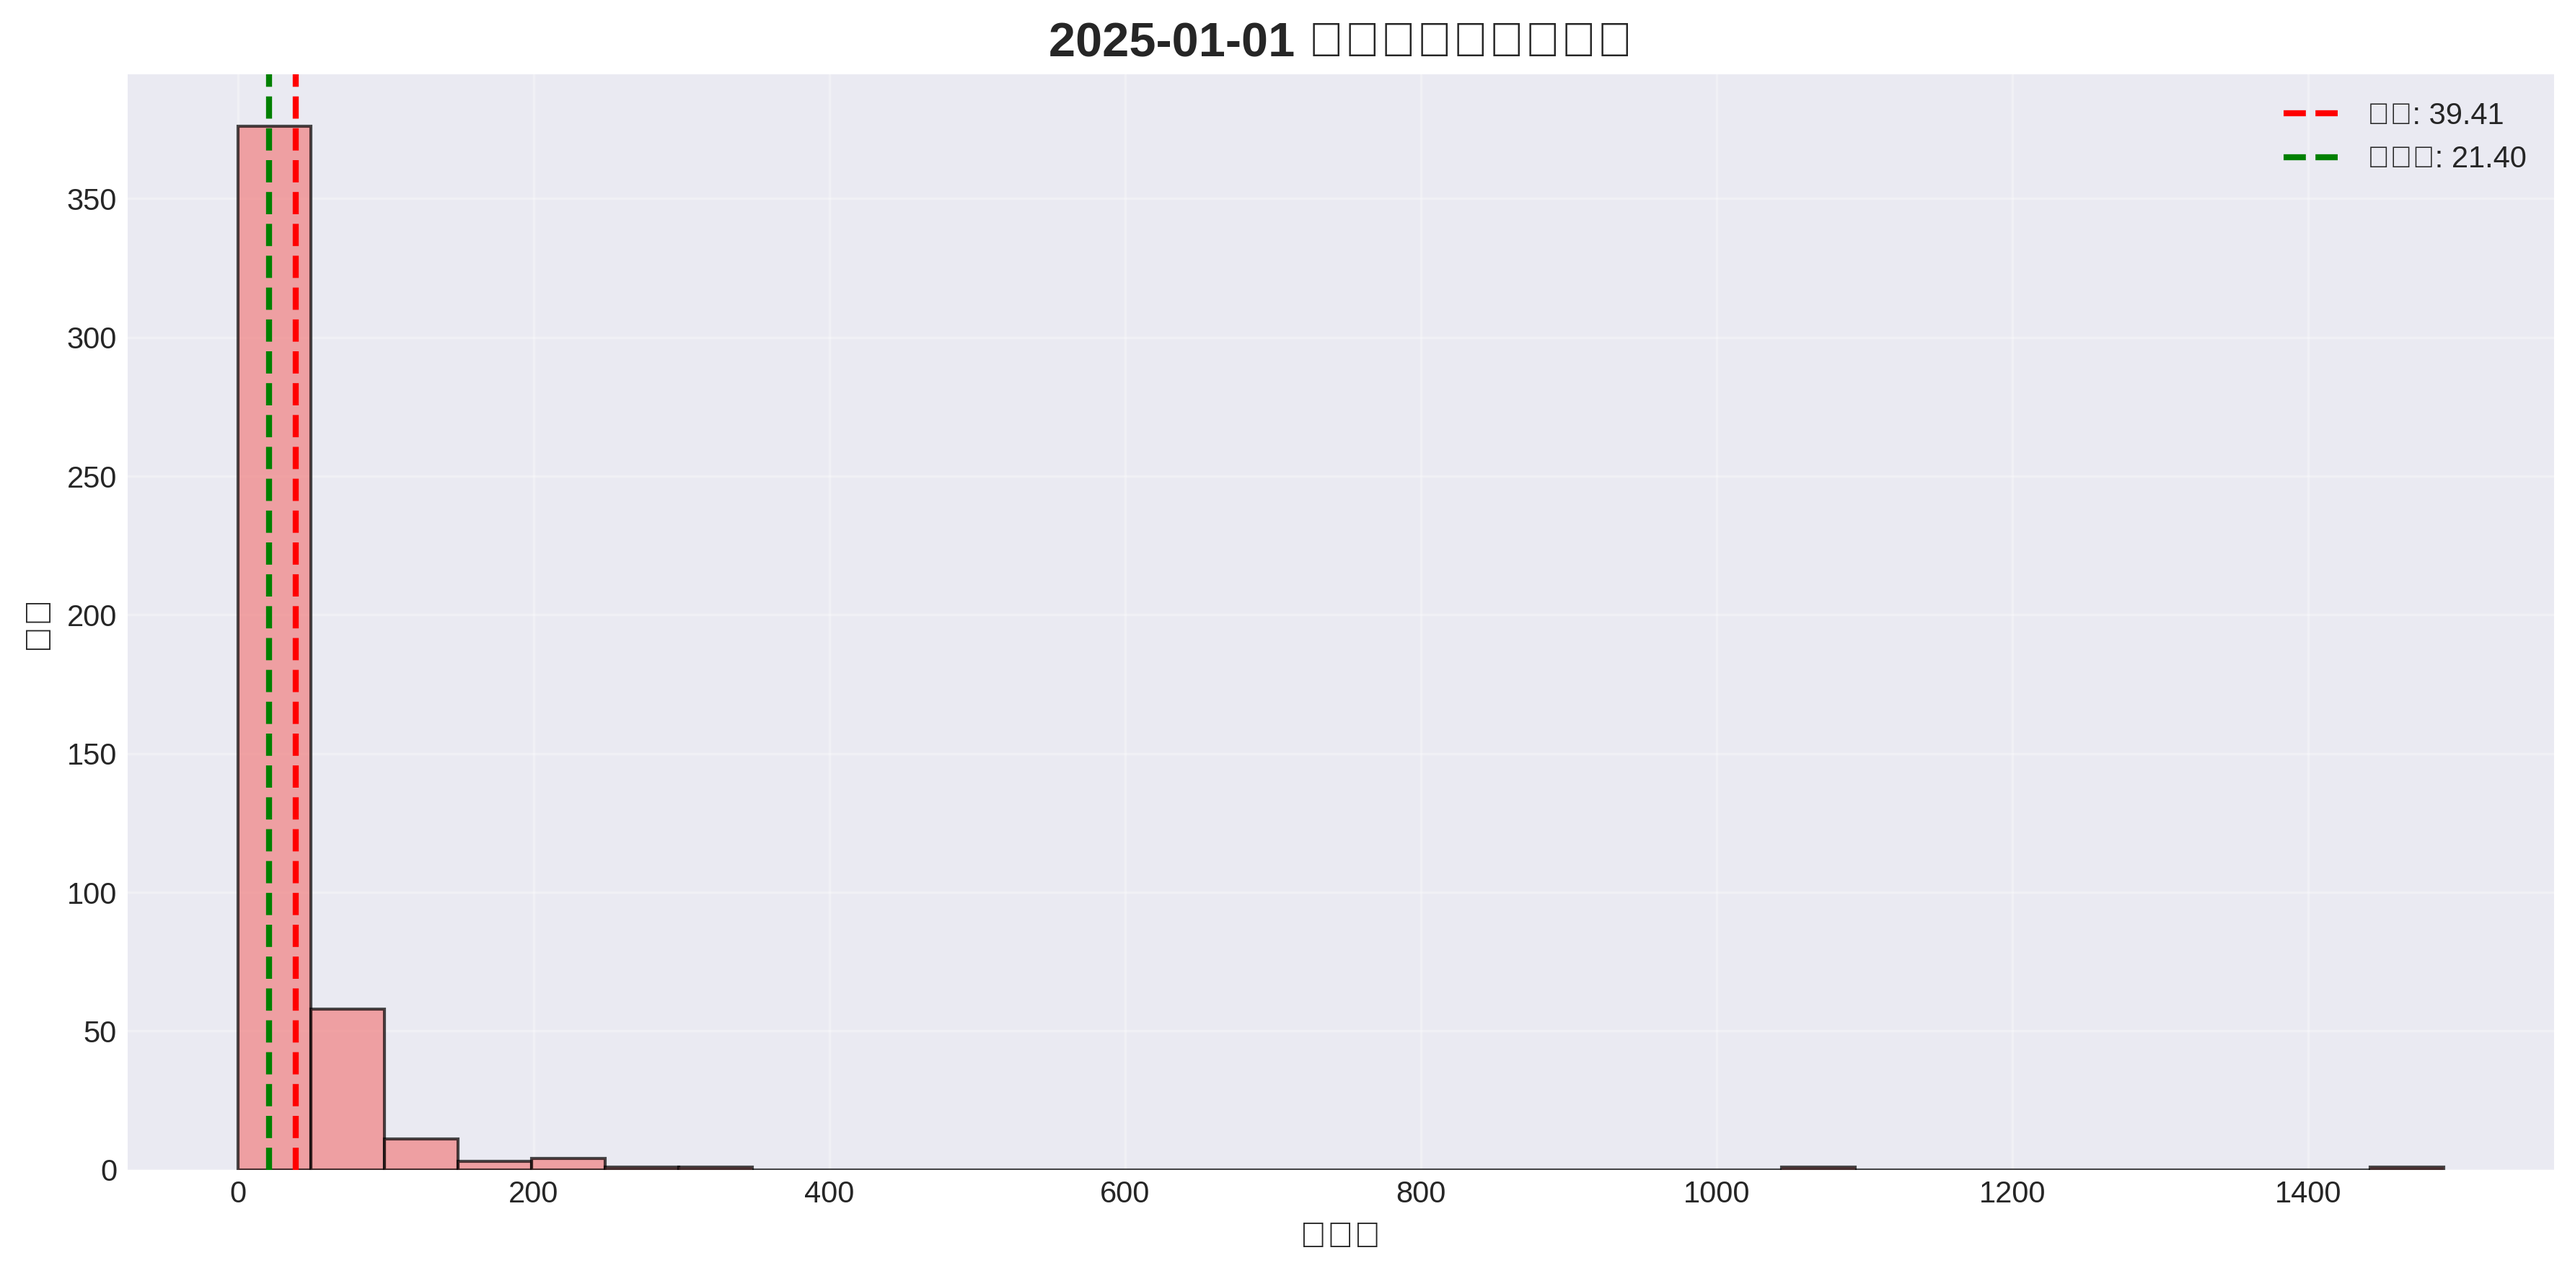
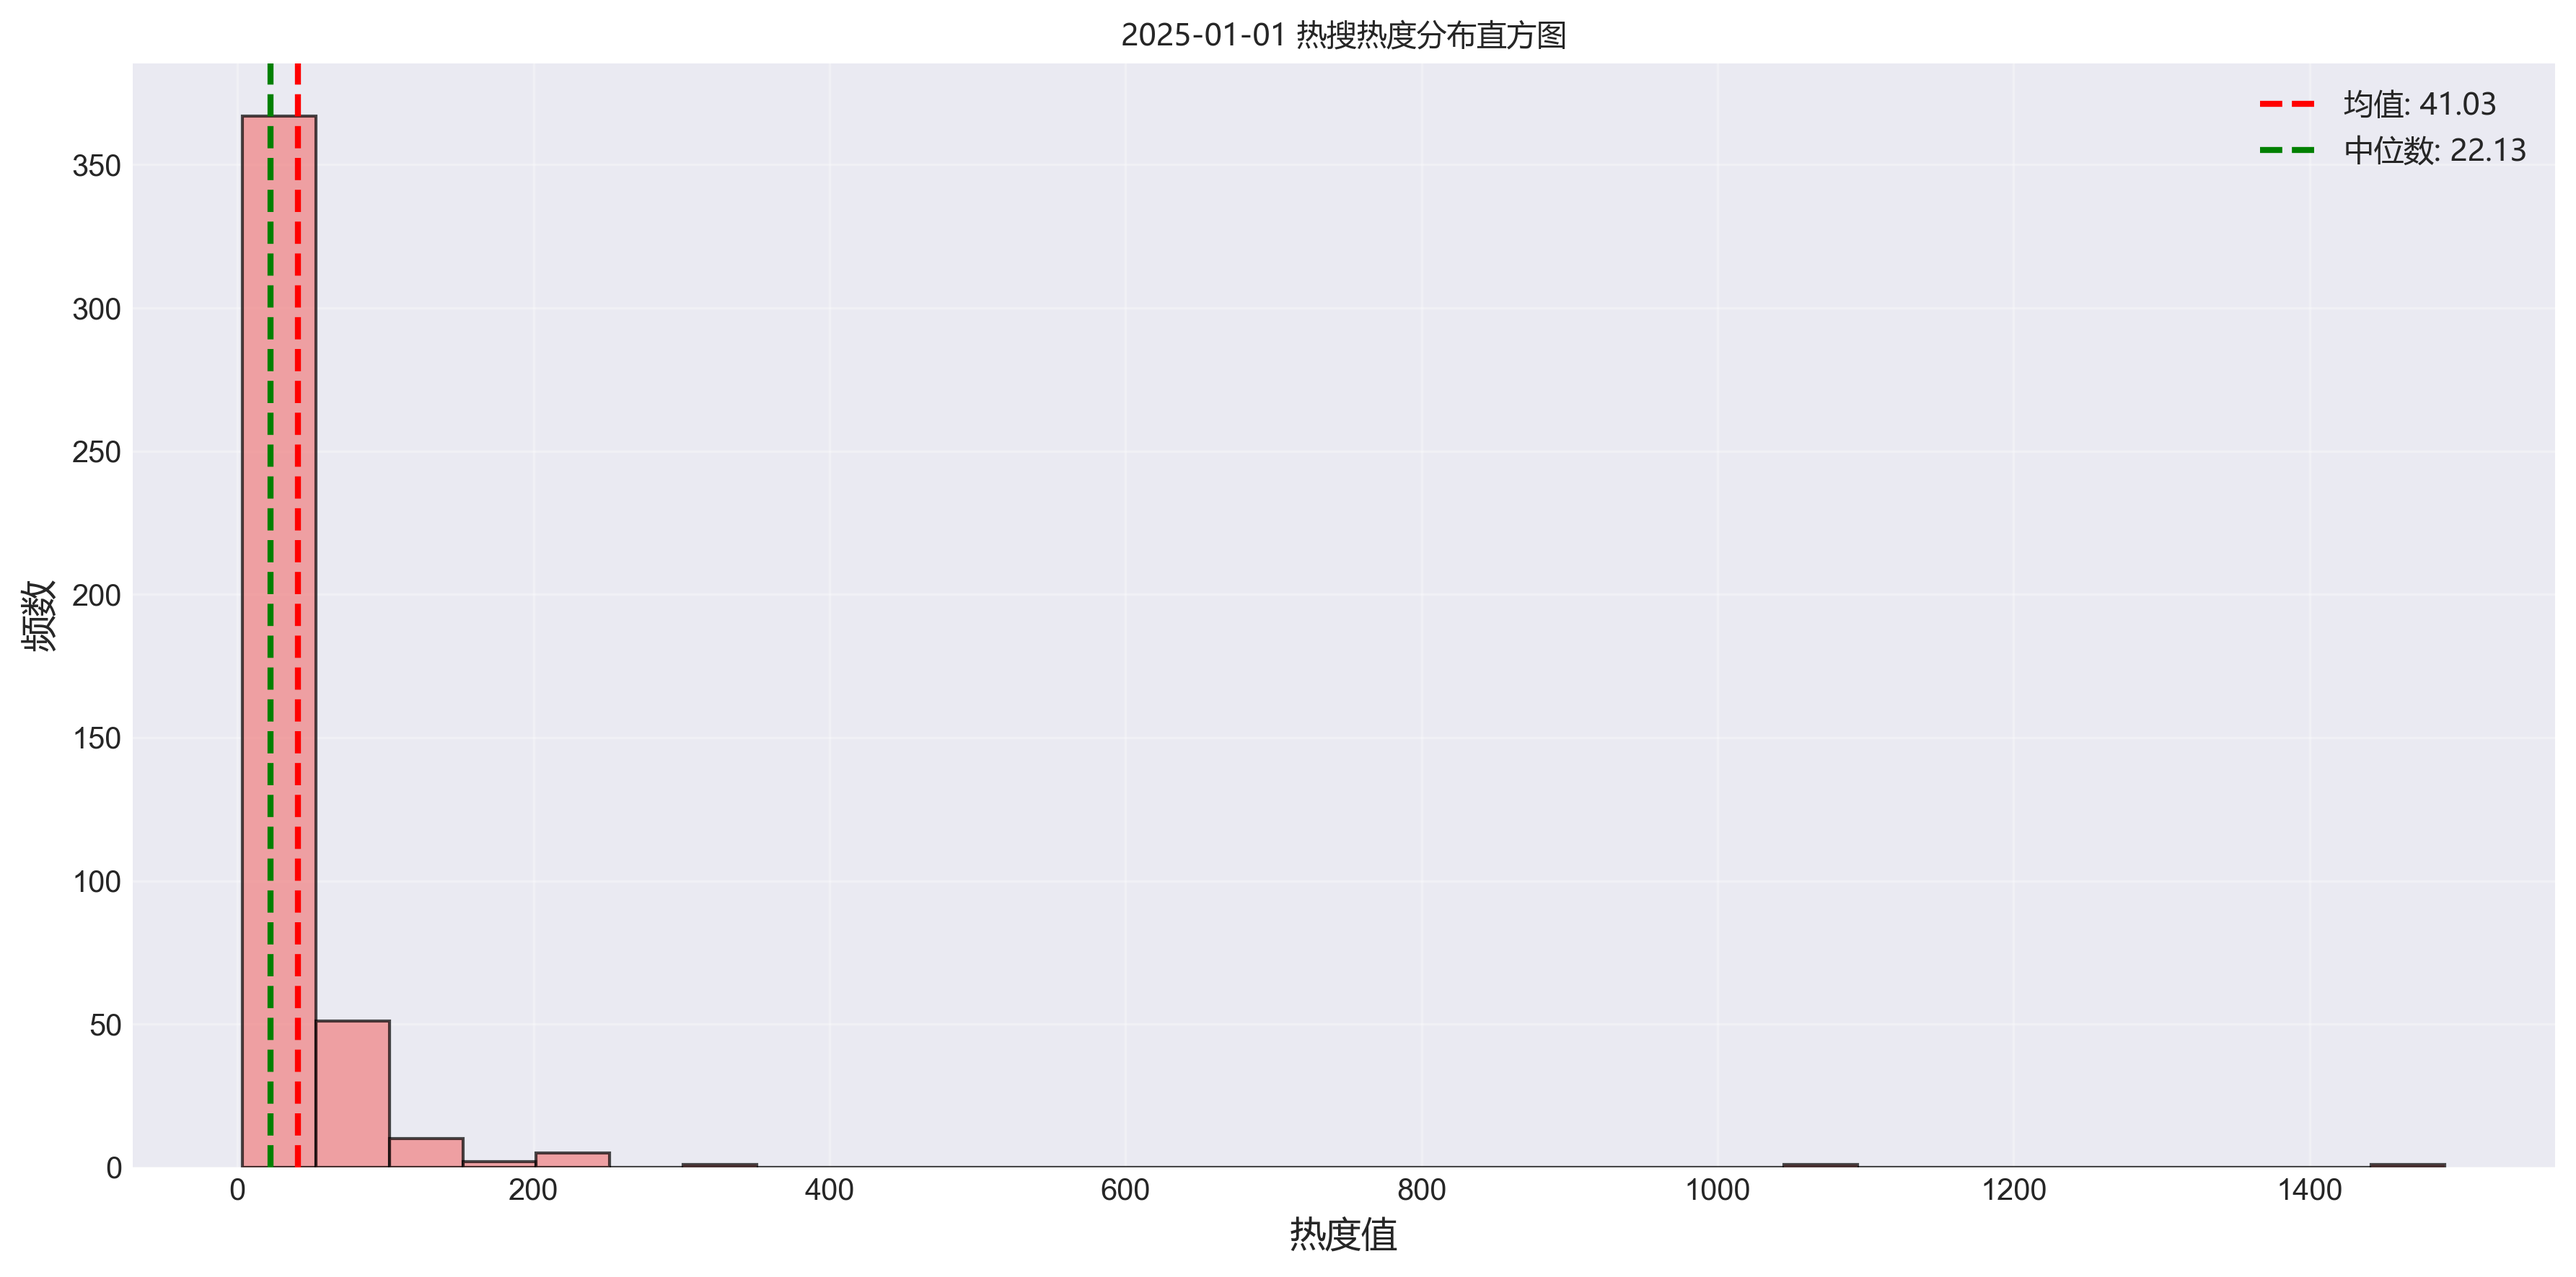
fix: 中文字体显示

diff --git a/src/json_analyzer.py b/src/json_analyzer.py
@@ -18,11 +18,13 @@ JSON 数据分析模块
 import argparse
 import json
 import os
+import platform
 import sys
 import warnings
 from pathlib import Path
 from typing import Any, Dict, List, Optional
 
+import matplotlib
 import matplotlib.font_manager as fm
 import matplotlib.pyplot as plt
 import numpy as np
@@ -31,145 +33,52 @@ import pandas as pd
 # 过滤警告
 warnings.filterwarnings("ignore")
 
+# 全局字体属性，后续直接使用
+GLOBAL_FONT_PROP = None
 
-def setup_font(font_name: str = "DejaVu Sans") -> bool:
-    """
-    设置中文字体，优先使用指定字体
 
-    Args:
-        font_name: 字体名称，默认为 "DejaVu Sans"
-
-    Returns:
-        bool: 字体设置是否成功
-    """
+def setup_font(font_name: str = "") -> bool:
+    """直接加载字体文件，确保中文显示。"""
+    global GLOBAL_FONT_PROP
+    
     try:
-        # 1. 首先尝试通过 fontconfig 查找字体文件
-        import os
-        import subprocess
-
-        # 尝试使用 fc-list 查找字体文件
-        try:
-            result = subprocess.run(
-                ["fc-list", ":", "family", "style"],
-                capture_output=True,
-                text=True,
-                check=True,
-            )
-
-            # 搜索包含目标字体名称的行
-            font_files = []
-            for line in result.stdout.split("\n"):
-                if font_name.lower() in line.lower():
-                    # 提取字体文件路径
-                    parts = line.split(":")
-                    if len(parts) > 0:
-                        font_path = parts[0].strip()
-                        if os.path.exists(font_path):
-                            font_files.append(font_path)
-
-            if font_files:
-                # 使用找到的第一个字体文件
-                font_path = font_files[0]
-                fm.fontManager.addfont(font_path)
-                font_prop = fm.FontProperties(fname=font_path)
-                plt.rcParams["font.sans-serif"] = [font_prop.get_name()]
-                plt.rcParams["axes.unicode_minus"] = False
-                print(f"成功设置字体 (通过fc-list): {font_prop.get_name()}")
-                return True
-        except (subprocess.CalledProcessError, FileNotFoundError):
-            pass  # fc-list 不可用，继续其他方法
-
-        # 2. 尝试常见的用户字体目录
-        user_font_dirs = [
-            os.path.expanduser("~/.local/share/fonts"),
-            os.path.expanduser("~/.fonts"),
-            "/usr/local/share/fonts",
-            "/usr/share/fonts",
-        ]
-
-        # 搜索字体文件
-        import glob
-
-        for font_dir in user_font_dirs:
-            if os.path.exists(font_dir):
-                # 搜索包含字体名称的文件
-                for pattern in ["*Maple*", "*mono*", "*NF*", "*CN*"]:
-                    for font_file in glob.glob(
-                        os.path.join(font_dir, "**", f"*{pattern}*.ttf"), recursive=True
-                    ):
-                        if os.path.isfile(font_file):
-                            try:
-                                fm.fontManager.addfont(font_file)
-                                font_prop = fm.FontProperties(fname=font_file)
-                                font_family = font_prop.get_name()
-                                if font_name.lower() in font_family.lower():
-                                    plt.rcParams["font.sans-serif"] = [font_family]
-                                    plt.rcParams["axes.unicode_minus"] = False
-                                    print(f"成功设置字体 (通过文件搜索): {font_family}")
-                                    return True
-                            except:
-                                continue
-
-        # 3. 回退到 matplotlib 的字体查找
-        available_fonts = [f.name for f in fm.fontManager.ttflist]
-
-        # 尝试查找包含指定名称的字体
-        font_found = False
-        target_font = None
-
-        for font in fm.fontManager.ttflist:
-            # 更灵活的匹配：检查字体名称是否包含关键词
-            font_lower = font.name.lower()
-            search_terms = [term.lower() for term in font_name.split()] + [
-                font_name.lower()
-            ]
-            for term in search_terms:
-                if term in font_lower:
-                    target_font = font.fname
-                    font_found = True
-                    break
-            if font_found:
-                break
-
-        if font_found and target_font:
-            # 添加字体到matplotlib
-            fm.fontManager.addfont(target_font)
-            font_prop = fm.FontProperties(fname=target_font)
-            plt.rcParams["font.sans-serif"] = [font_prop.get_name()]
-            plt.rcParams["axes.unicode_minus"] = False
-            print(f"成功设置字体: {font_prop.get_name()}")
+        font_path = None
+        
+        # Windows: 直接使用微软雅黑
+        if platform.system() == "Windows":
+            font_path = r"C:\Windows\Fonts\msyh.ttc"
+            if not os.path.exists(font_path):
+                font_path = r"C:\Windows\Fonts\simhei.ttf"
+        # macOS: 苹方
+        elif platform.system() == "Darwin":
+            font_path = "/System/Library/Fonts/PingFang.ttc"
+            if not os.path.exists(font_path):
+                font_path = "/System/Library/Fonts/STHeiti Light.ttc"
+        # Linux: Noto Sans CJK
+        else:
+            font_path = "/usr/share/fonts/truetype/noto/NotoSansCJK-Regular.ttc"
+            if not os.path.exists(font_path):
+                font_path = "/usr/share/fonts/truetype/wqy/wqy-microhei.ttc"
+        
+        if font_path and os.path.exists(font_path):
+            # 直接通过文件路径创建FontProperties
+            GLOBAL_FONT_PROP = fm.FontProperties(fname=font_path)
+            # 设置matplotlib全局字体
+            matplotlib.rcParams["font.sans-serif"] = [GLOBAL_FONT_PROP.get_name()]
+            matplotlib.rcParams["axes.unicode_minus"] = False
+            print(f"✓ 已加载字体: {GLOBAL_FONT_PROP.get_name()} from {font_path}")
             return True
         else:
-            # 如果没有找到指定字体，使用系统默认中文字体
-            print(f"未找到字体 '{font_name}'，使用系统默认中文字体")
-
-            # 尝试常见的中文字体
-            chinese_fonts = [
-                "SimHei",
-                "Microsoft YaHei",
-                "DejaVu Sans",
-                "Arial Unicode MS",
-                "WenQuanYi Micro Hei",
-                "Noto Sans CJK SC",
-            ]
-            for font in chinese_fonts:
-                if font in available_fonts:
-                    plt.rcParams["font.sans-serif"] = [font]
-                    plt.rcParams["axes.unicode_minus"] = False
-                    print(f"使用备选字体: {font}")
-                    return True
-
-            # 如果都没有，使用第一个可用字体
-            if available_fonts:
-                plt.rcParams["font.sans-serif"] = [available_fonts[0]]
-                plt.rcParams["axes.unicode_minus"] = False
-                print(f"使用可用字体: {available_fonts[0]}")
-                return True
-
+            print(f"⚠ 字体文件不存在: {font_path}")
+            # 兜底：使用系统可用字体
+            matplotlib.rcParams["axes.unicode_minus"] = False
             return False
+            
     except Exception as e:
-        print(f"字体设置失败: {e}")
+        print(f"✗ 字体加载异常: {e}")
+        matplotlib.rcParams["axes.unicode_minus"] = False
         return False
+
 
 
 def load_json_data(file_path: str) -> Dict[str, Any]:
@@ -314,9 +223,9 @@ def generate_charts(
         )
 
         # 添加标题和标签
-        plt.title(f"{date_str} 热度排名前20的热搜", fontsize=16, fontweight="bold")
-        plt.xlabel("热度值", fontsize=12)
-        plt.yticks(range(len(top_20)), top_20["title"], fontsize=10)
+        plt.title(f"{date_str} 热度排名前20的热搜", fontsize=16, fontweight="bold", fontproperties=GLOBAL_FONT_PROP)
+        plt.xlabel("热度值", fontsize=12, fontproperties=GLOBAL_FONT_PROP)
+        plt.yticks(range(len(top_20)), top_20["title"], fontsize=10, fontproperties=GLOBAL_FONT_PROP)
 
         # 在条形图上添加数值标签
         for i, (bar, heat) in enumerate(zip(bars, top_20["heat"])):
@@ -346,9 +255,9 @@ def generate_charts(
             df["heat"], bins=30, color="lightcoral", alpha=0.7, edgecolor="black"
         )
 
-        plt.title(f"{date_str} 热搜热度分布直方图", fontsize=16, fontweight="bold")
-        plt.xlabel("热度值", fontsize=12)
-        plt.ylabel("频数", fontsize=12)
+        plt.title(f"{date_str} 热搜热度分布直方图", fontsize=16, fontweight="bold", fontproperties=GLOBAL_FONT_PROP)
+        plt.xlabel("热度值", fontsize=12, fontproperties=GLOBAL_FONT_PROP)
+        plt.ylabel("频数", fontsize=12, fontproperties=GLOBAL_FONT_PROP)
 
         # 添加均值线
         mean_heat = df["heat"].mean()
@@ -370,7 +279,7 @@ def generate_charts(
             label=f"中位数: {median_heat:.2f}",
         )
 
-        plt.legend()
+        plt.legend(prop=GLOBAL_FONT_PROP)
         plt.grid(True, alpha=0.3)
         plt.tight_layout()
         plt.savefig(
@@ -395,15 +304,15 @@ def generate_charts(
         )
 
         plt.title(
-            f"{date_str} 阅读量与讨论量关系散点图", fontsize=16, fontweight="bold"
+            f"{date_str} 阅读量与讨论量关系散点图", fontsize=16, fontweight="bold", fontproperties=GLOBAL_FONT_PROP
         )
-        plt.xlabel("阅读量（万）", fontsize=12)
-        plt.ylabel("讨论量（万）", fontsize=12)
+        plt.xlabel("阅读量（万）", fontsize=12, fontproperties=GLOBAL_FONT_PROP)
+        plt.ylabel("讨论量（万）", fontsize=12, fontproperties=GLOBAL_FONT_PROP)
 
         # 添加颜色条表示热度
         if "heat" in df.columns:
             cbar = plt.colorbar(scatter)
-            cbar.set_label("热度值", fontsize=12)
+            cbar.set_label("热度值", fontsize=12, fontproperties=GLOBAL_FONT_PROP)
 
         # 添加趋势线
         if len(df) > 1:
@@ -411,7 +320,7 @@ def generate_charts(
             p = np.poly1d(z)
             plt.plot(df["reads"], p(df["reads"]), "r--", alpha=0.8, label="趋势线")
 
-        plt.legend()
+        plt.legend(prop=GLOBAL_FONT_PROP)
         plt.grid(True, alpha=0.3)
         plt.tight_layout()
         plt.savefig(
@@ -449,10 +358,10 @@ def generate_charts(
                 autopct="%1.1f%%",
                 startangle=90,
                 colors=colors,
-                textprops={"fontsize": 10},
+                textprops={"fontsize": 10, "fontproperties": GLOBAL_FONT_PROP},
             )
 
-            plt.title(f"{date_str} 热搜类别分布", fontsize=16, fontweight="bold")
+            plt.title(f"{date_str} 热搜类别分布", fontsize=16, fontweight="bold", fontproperties=GLOBAL_FONT_PROP)
             plt.axis("equal")  # 确保饼图是圆形
 
             plt.tight_layout()
@@ -474,9 +383,9 @@ def generate_charts(
             color="skyblue",
             alpha=0.7,
         )
-        axes[0, 0].set_title("排名分布", fontsize=14)
-        axes[0, 0].set_xlabel("排名")
-        axes[0, 0].set_ylabel("热度" if "heat" in df.columns else "数量")
+        axes[0, 0].set_title("排名分布", fontsize=14, fontproperties=GLOBAL_FONT_PROP)
+        axes[0, 0].set_xlabel("排名", fontproperties=GLOBAL_FONT_PROP)
+        axes[0, 0].set_ylabel("热度" if "heat" in df.columns else "数量", fontproperties=GLOBAL_FONT_PROP)
         axes[0, 0].invert_xaxis()  # 排名1在左边
         axes[0, 0].grid(True, alpha=0.3)
 
@@ -486,9 +395,9 @@ def generate_charts(
         axes[0, 1].bar(
             originals_data.index, originals_data.values, color="lightgreen", alpha=0.7
         )
-        axes[0, 1].set_title("原创数量分布", fontsize=14)
-        axes[0, 1].set_xlabel("原创数量")
-        axes[0, 1].set_ylabel("频数")
+        axes[0, 1].set_title("原创数量分布", fontsize=14, fontproperties=GLOBAL_FONT_PROP)
+        axes[0, 1].set_xlabel("原创数量", fontproperties=GLOBAL_FONT_PROP)
+        axes[0, 1].set_ylabel("频数", fontproperties=GLOBAL_FONT_PROP)
         axes[0, 1].grid(True, alpha=0.3)
 
     # 5.3 热度箱线图
@@ -499,8 +408,8 @@ def generate_charts(
             patch_artist=True,
             boxprops=dict(facecolor="lightcoral"),
         )
-        axes[1, 0].set_title("热度箱线图", fontsize=14)
-        axes[1, 0].set_ylabel("热度值")
+        axes[1, 0].set_title("热度箱线图", fontsize=14, fontproperties=GLOBAL_FONT_PROP)
+        axes[1, 0].set_ylabel("热度值", fontproperties=GLOBAL_FONT_PROP)
         axes[1, 0].grid(True, alpha=0.3)
 
     # 5.4 阅读量箱线图
